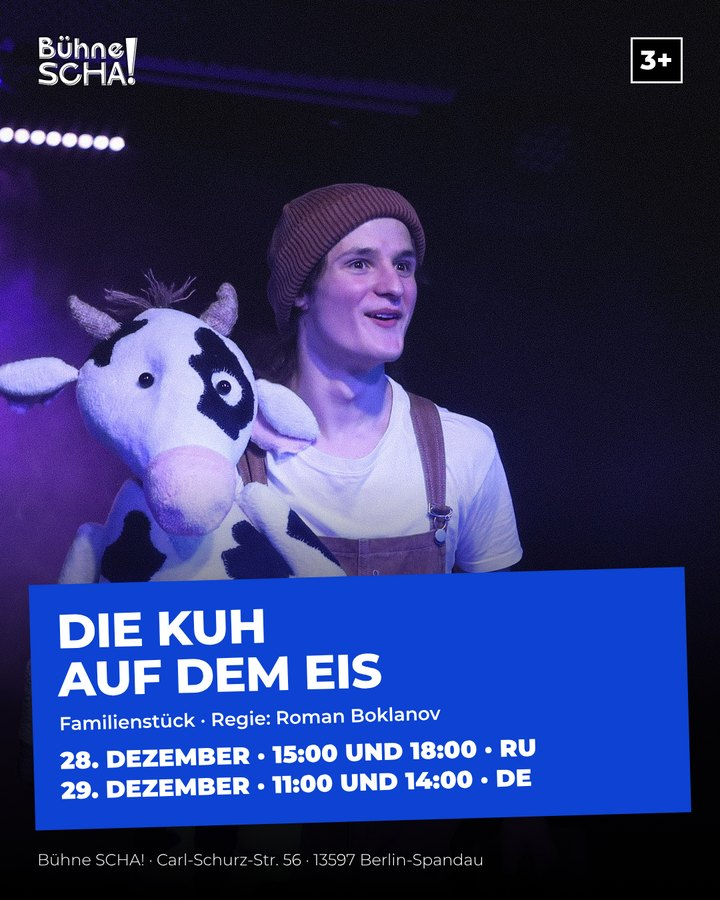
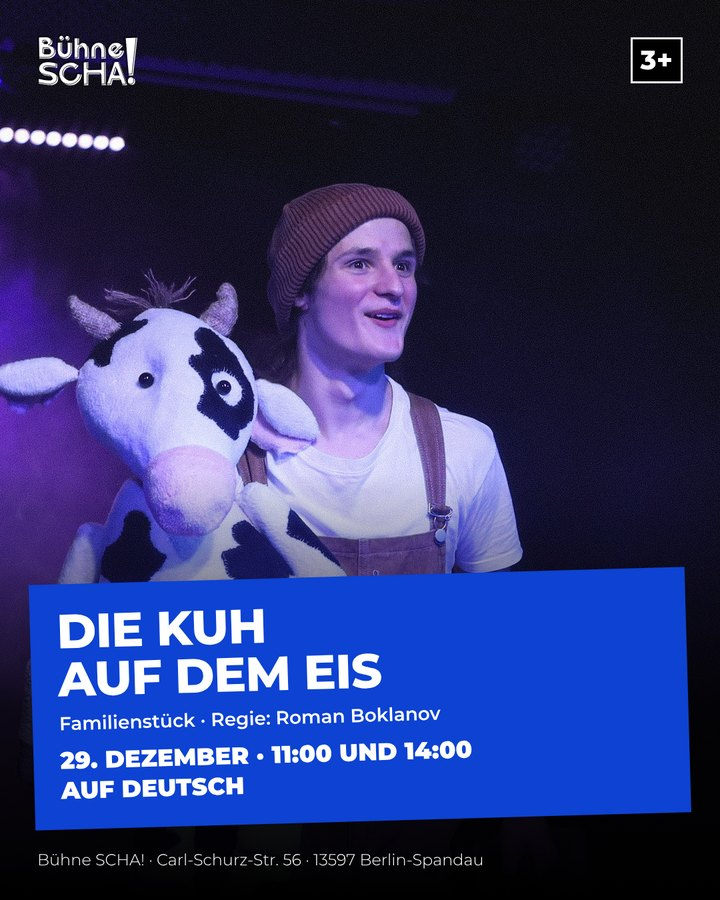
/alle/: RU — русские показы, DE — на немецком, с немецкими Übertitel и фильм в оригинале; немецкие картинки
Claude-Session: https://claude.ai/code/session_01RnKSTGKpZb11p34JeQWmA2

Changed region(s): [[0.0917, 0.8089, 0.7639, 0.9022]]

diff --git a/alle/index.html b/alle/index.html
@@ -57,8 +57,8 @@ footer a{color:var(--fg)}
 </div>
 <script>
 const T={
-ru:{h1:'Декабрь<br>в SCHA!',plate:'Билеты на все события',lead:'Kulturzentrum und Theaterbühne in der Spandauer Altstadt. Нажмите «Купить билет», и откроется страница продажи на Fienta.',buy:'Купить билет',tour:'Гастроли'},
-de:{h1:'Dezember<br>im SCHA!',plate:'Tickets für alle Veranstaltungen',lead:'Kulturzentrum und Theaterbühne in der Spandauer Altstadt. Mit „Ticket kaufen“ öffnet sich der Ticketverkauf bei Fienta.',buy:'Ticket kaufen',tour:'Gastspiel'}};
+ru:{h1:'Декабрь<br>в SCHA!',plate:'Билеты · на русском',lead:'Kulturzentrum und Theaterbühne in der Spandauer Altstadt. Здесь все события на русском языке. Нажмите «Купить билет», и откроется страница продажи на Fienta.',buy:'Купить билет',tour:'Гастроли'},
+de:{h1:'Dezember<br>im SCHA!',plate:'Tickets für deutschsprachige Gäste',lead:'Kulturzentrum und Theaterbühne in der Spandauer Altstadt. Hier finden Sie alle Vorstellungen auf Deutsch, mit deutschen Übertiteln oder im englischen Original. Mit „Ticket kaufen“ öffnet sich der Ticketverkauf bei Fienta.',buy:'Ticket kaufen',tour:'Gastspiel'}};
 const ut=(t)=>`<span class="lc ut">${t}</span>`, l=(t)=>`<span class="lc">${t}</span>`;
 const E=[
 {img:{ru:'0_italianamericans.jpg',de:'0_italianamericans_de.jpg'},url:'https://fienta.com/ru/kinolekciya-easy-pieces',
@@ -70,19 +70,18 @@ const E=[
 {img:'2_nezabyvaemyj.jpg',url:'https://fienta.com/nezabyvaemyy-sluchay-improvizacionnyy-spektakl-dlya-vzroslyh-v-buhne-scha',tour:1,
  date:{ru:'15 декабря · 20:00',de:'15. Dezember · 20:00'},age:'16+',t:{ru:'Незабываемый случай',de:'Ein unvergesslicher Vorfall'},
  sub:{ru:'Flashback Lab · импровизационный спектакль',de:'Flashback Lab · Improtheater'},lang:l('RU')},
-{img:'3_M.jpg',url:'https://fienta.com/spektakl-m-2',
+{img:{ru:'3_M.jpg',de:'3_M_de.jpg'},on:['ru','de'],url:'https://fienta.com/spektakl-m-2',
  date:{ru:'17 и 18 декабря · 20:00',de:'17. und 18. Dezember · 20:00'},age:'16+',t:{ru:'М.',de:'M.'},
  sub:{ru:'Реж. Костя Новицкий · по мотивам «Старика и моря» Эрнеста Хемингуэя',de:'Regie: Kostja Nowizki · nach „Der alte Mann und das Meer“ von Ernest Hemingway'},lang:l('RU')+ut('DE Übertitel')},
-{img:'5_kino.jpg',url:'https://fienta.com/rozhdestvenskoe-kino-v-buhne-scha',
- date:{ru:'26 декабря · 14:00 и 17:00',de:'26. Dezember · 14:00 und 17:00'},age:'6+ / 16+',t:{ru:'Рождественское кино',de:'Weihnachtskino'},
- sub:{ru:'14:00 семейный показ · 17:00 для взрослых. Чай и угощения входят в билет. Какие фильмы, секрет',de:'14:00 für die ganze Familie · 17:00 für Erwachsene. Tee und Snacks inklusive. Welche Filme? Ein Geheimnis'},
- lang:{ru:'14:00 '+l('RU')+' &nbsp;17:00 '+l('EN')+ut('RU Untertitel'),de:'14:00 '+l('RU')+' &nbsp;17:00 '+l('EN')+ut('RU Untertitel')}},
-{img:{ru:'7_korova_ru.jpg',de:'7_korova_de.jpg'},url:'https://fienta.com/ru/spektakl-korova-na-ldu-dlya-vsey-semi',
- date:{ru:'28 и 29 декабря',de:'28. und 29. Dezember'},age:'3+',t:{ru:'Корова на льду',de:'Die Kuh auf dem Eis'},
+{img:{ru:'5_kino.jpg',de:'5_kino_de.jpg'},on:['ru','de'],url:'https://fienta.com/rozhdestvenskoe-kino-v-buhne-scha',
+ date:{ru:'26 декабря · 14:00 и 17:00',de:'26. Dezember · 17:00'},age:{ru:'6+ / 16+',de:'16+'},t:{ru:'Рождественское кино',de:'Weihnachtskino'},
+ sub:{ru:'14:00 семейный показ · 17:00 для взрослых. Чай и угощения входят в билет. Какие фильмы, секрет',de:'Weihnachtsfilm für Erwachsene im englischen Original mit russischen Untertiteln. Tee und Snacks inklusive. Welcher Film? Ein Geheimnis'},
+ lang:{ru:'14:00 '+l('RU')+' &nbsp;17:00 '+l('EN')+ut('RU Untertitel'),de:l('EN')+ut('RU Untertitel')}},
+{img:{ru:'7_korova_ru.jpg',de:'7_korova_de.jpg'},on:['ru','de'],url:{ru:'https://fienta.com/ru/spektakl-korova-na-ldu-dlya-vsey-semi',de:'https://fienta.com/de/217878'},
+ date:{ru:'28 декабря · 15:00 и 18:00',de:'29. Dezember · 11:00 und 14:00'},age:'3+',t:{ru:'Корова на льду',de:'Die Kuh auf dem Eis'},
  sub:{ru:'Семейный спектакль по сказке Антона Сои · реж. Роман Бокланов',de:'Familienstück nach dem Märchen von Anton Soja · Regie: Roman Boklanov'},
- lang:{ru:'28.12 · 15:00 и 18:00 '+l('RU')+'<br>29.12 · 11:00 и 14:00 '+l('DE'),de:'28.12. · 15:00 und 18:00 '+l('RU')+'<br>29.12. · 11:00 und 14:00 '+l('DE')},
- btns:[{u:'https://fienta.com/ru/spektakl-korova-na-ldu-dlya-vsey-semi',ru:'28.12 · RU',de:'28.12. · RU'},{u:'https://fienta.com/de/217878',ru:'29.12 · DE',de:'29.12. · DE'}]},
-{img:'4_plintus.jpg',url:'https://fienta.com/spektakl-pohoronite-menya-za-plintusom-2',tour:1,
+ lang:{ru:l('RU'),de:l('DE')}},
+{img:{ru:'4_plintus.jpg',de:'4_plintus_de.jpg'},on:['ru','de'],url:'https://fienta.com/spektakl-pohoronite-menya-za-plintusom-2',tour:1,
  date:{ru:'29 и 30 декабря · 18:00',de:'29. und 30. Dezember · 18:00'},age:'16+',t:{ru:'Похороните меня за плинтусом',de:'Begrabt mich hinter der Fußleiste'},
  sub:{ru:'Моноспектакль по повести Павла Санаева · реж. Роман Бокланов',de:'Solostück nach dem Roman von Pawel Sanajew · Regie: Roman Boklanov'},lang:l('RU')+ut('DE Übertitel')},
 {img:'6_ny.jpg',url:'https://fienta.com/novogodnyaya-noch-v-buhne-scha',
@@ -95,10 +94,10 @@ function render(L){
  document.documentElement.lang=L;
  for(const k of ['h1','plate','lead']) document.getElementById(k).innerHTML=T[L][k];
  document.querySelectorAll('.lng button').forEach(b=>b.setAttribute('aria-pressed',b.dataset.l===L));
- document.getElementById('list').innerHTML=E.map(e=>{
-  const t=pick(e.t,L), btn=e.btns?`<div class="btns">${e.btns.map(b=>a(b.u,T[L].buy+' '+b[L])).join('')}</div>`:a(e.url,T[L].buy);
-  return `<article class="ev"><a class="pic" href="${e.url}" target="_blank" rel="noopener"><img src="../${pick(e.img,L)}" alt="${t}" loading="lazy" width="720" height="900"></a>
-<div class="info"><div class="meta"><span class="date">${pick(e.date,L)}</span>${e.age?`<span class="age">${e.age}</span>`:''}${e.tour?`<span class="tour">${T[L].tour}</span>`:''}</div>
+ document.getElementById('list').innerHTML=E.filter(e=>(e.on||['ru']).includes(L)).map(e=>{const U=pick(e.url,L);
+  const t=pick(e.t,L), btn=e.btns?`<div class="btns">${e.btns.map(b=>a(b.u,T[L].buy+' '+b[L])).join('')}</div>`:a(U,T[L].buy);
+  return `<article class="ev"><a class="pic" href="${U}" target="_blank" rel="noopener"><img src="../${pick(e.img,L)}" alt="${t}" loading="lazy" width="720" height="900"></a>
+<div class="info"><div class="meta"><span class="date">${pick(e.date,L)}</span>${e.age?`<span class="age">${pick(e.age,L)}</span>`:''}${e.tour?`<span class="tour">${T[L].tour}</span>`:''}</div>
 <h2>${t}</h2><p class="sub">${pick(e.sub,L)}</p><p class="lang">${pick(e.lang,L)}</p>${btn}</div></article>`}).join('');
  try{localStorage.setItem('scha-lang',L)}catch(_){}
 }
